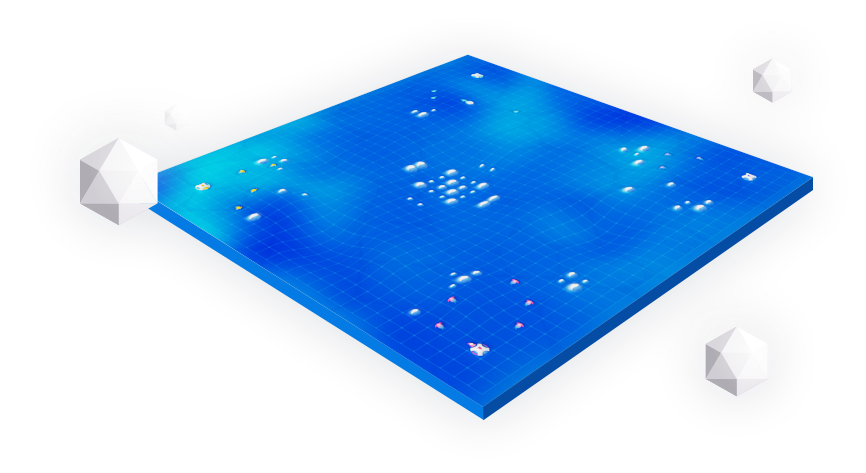
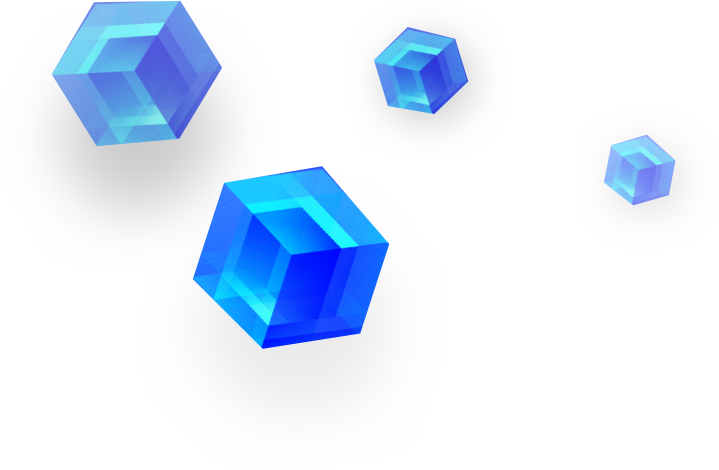
update homepage image

diff --git a/website/javascript/templates/Leaderboard.vue b/website/javascript/templates/Leaderboard.vue
@@ -67,7 +67,7 @@
     </div>
     <div v-if="leaderboard.length > 0">
       <div class="table-container">
-        <table class="table table-leader leaderboard-table">
+        <table class="table">
           <thead>
           <tr>
             <th class="text-center">Rank</th>
